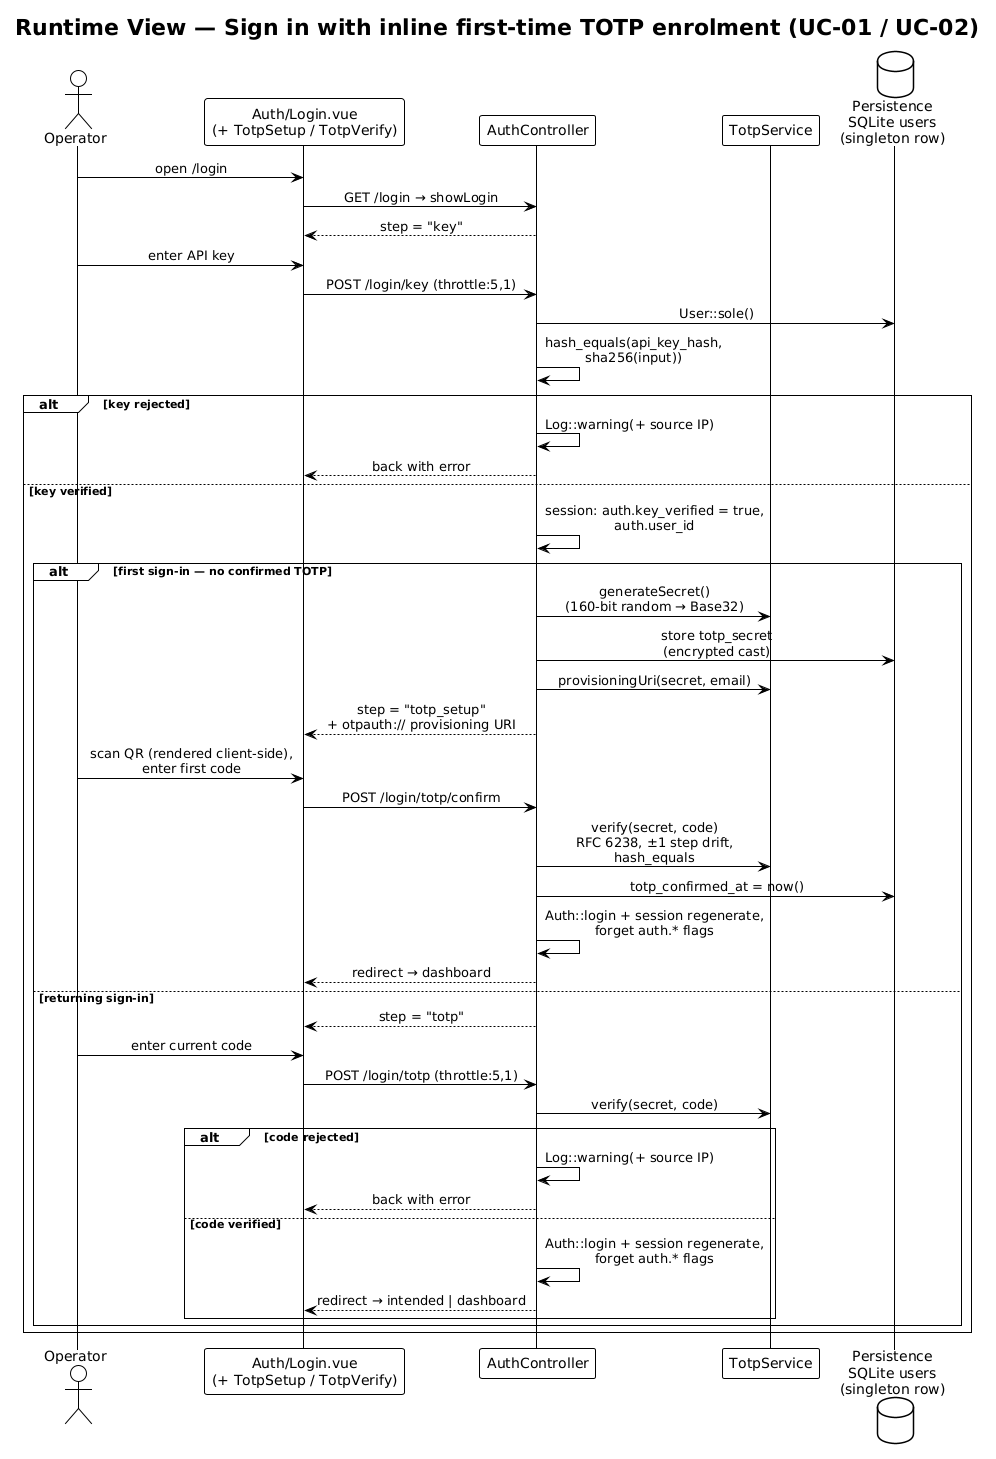
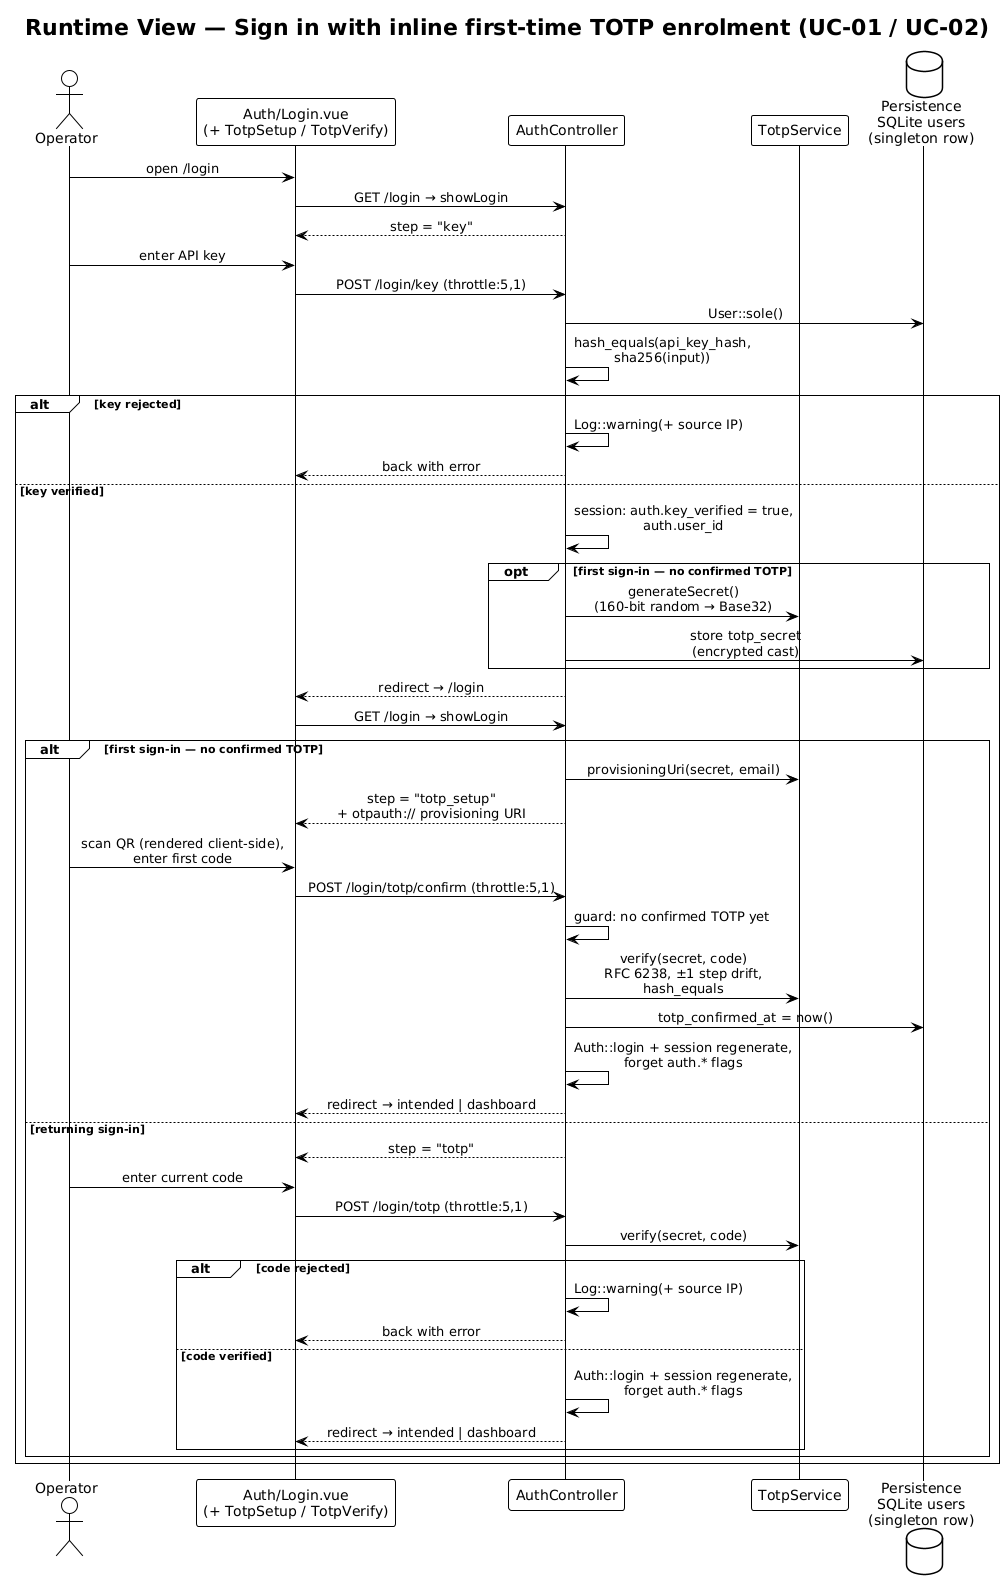
fix(auth): guard TOTP enrolment against re-enrolment bypass
setupTotp and confirmTotp now redirect to /login once a TOTP factor is
confirmed, so the API key alone can no longer replace the secret and
sign in. Both enrolment endpoints get the same throttle:5,1 as the
factor endpoints.

TotpService decodes the secret once per verify() and packs the counter
as a 64-bit big-endian integer; validation reads the code length from
TotpService::DIGITS.

Docs: A06 sign-in diagram follows the real call order (provisioning URI
built in showLogin after the redirect), A06/A08 describe the enrolment
guard and throttling, remaining TECH-13 references point to ADR-010.

diff --git a/app/Services/TotpService.php b/app/Services/TotpService.php
@@ -52,10 +52,11 @@ class TotpService
      */
     public function verify(string $secret, string $code, ?int $timestamp = null): bool
     {
+        $key = $this->base32Decode($secret);
         $counter = intdiv($timestamp ?? time(), self::PERIOD);
 
         for ($offset = -self::WINDOW; $offset <= self::WINDOW; $offset++) {
-            if (hash_equals($this->codeForCounter($secret, $counter + $offset), $code)) {
+            if (hash_equals($this->codeForCounter($key, $counter + $offset), $code)) {
                 return true;
             }
         }
@@ -68,7 +69,7 @@ class TotpService
      */
     public function codeAt(string $secret, int $timestamp): string
     {
-        return $this->codeForCounter($secret, intdiv($timestamp, self::PERIOD));
+        return $this->codeForCounter($this->base32Decode($secret), intdiv($timestamp, self::PERIOD));
     }
 
     /**
@@ -126,14 +127,13 @@ class TotpService
     }
 
     /**
-     * HOTP value (RFC 4226) for a counter, zero-padded to DIGITS digits.
+     * HOTP value (RFC 4226) for a counter and raw (decoded) key,
+     * zero-padded to DIGITS digits.
      */
-    private function codeForCounter(string $base32Secret, int $counter): string
+    private function codeForCounter(string $key, int $counter): string
     {
-        // 8-byte big-endian counter (high word 0; sufficient until counter >= 2^32)
-        $counterBytes = pack('N*', 0, $counter);
-
-        $hash = hash_hmac('sha1', $counterBytes, $this->base32Decode($base32Secret), true);
+        // 8-byte big-endian counter
+        $hash = hash_hmac('sha1', pack('J', $counter), $key, true);
 
         // Dynamic truncation (RFC 4226 § 5.3)
         $offset = ord($hash[19]) & 0x0F;

diff --git a/app/Http/Controllers/AuthController.php b/app/Http/Controllers/AuthController.php
@@ -84,6 +84,11 @@ class AuthController extends Controller
 
         $user = User::findOrFail($request->session()->get('auth.user_id'));
 
+        // Never let factor 1 alone replace a confirmed second factor.
+        if ($user->hasTotpEnabled()) {
+            return redirect()->route('login');
+        }
+
         $secret = $totp->generateSecret();
         $user->update(['totp_secret' => $secret]);
 
@@ -98,7 +103,7 @@ class AuthController extends Controller
     public function confirmTotp(Request $request, TotpService $totp)
     {
         $request->validate([
-            'totp_code' => 'required|digits:6',
+            'totp_code' => 'required|digits:'.TotpService::DIGITS,
         ]);
 
         if (! $request->session()->get('auth.key_verified')) {
@@ -106,6 +111,10 @@ class AuthController extends Controller
         }
 
         $user = User::findOrFail($request->session()->get('auth.user_id'));
+
+        if ($user->hasTotpEnabled()) {
+            return redirect()->route('login');
+        }
 
         if (! $user->totp_secret) {
             return back()->withErrors(['totp_code' => 'TOTP not set up yet.']);
@@ -127,7 +136,7 @@ class AuthController extends Controller
     public function verifyTotp(Request $request, TotpService $totp)
     {
         $request->validate([
-            'totp_code' => 'required|digits:6',
+            'totp_code' => 'required|digits:'.TotpService::DIGITS,
         ]);
 
         if (! $request->session()->get('auth.key_verified')) {

diff --git a/tests/Acceptance/AuthenticationTest.php b/tests/Acceptance/AuthenticationTest.php
@@ -167,6 +167,25 @@ class AuthenticationTest extends TestCase
         $this->assertGuest();
     }
 
+    public function test_api_key_alone_cannot_replace_confirmed_totp(): void
+    {
+        $session = ['auth.key_verified' => true, 'auth.user_id' => $this->user->id];
+
+        $this->withSession($session)
+            ->post('/login/totp/setup')
+            ->assertRedirect('/login');
+
+        $this->assertSame(self::TOTP_SECRET, $this->user->fresh()->totp_secret);
+
+        $code = app(TotpService::class)->codeAt(self::TOTP_SECRET, time());
+
+        $this->withSession($session)
+            ->post('/login/totp/confirm', ['totp_code' => $code])
+            ->assertRedirect('/login');
+
+        $this->assertGuest();
+    }
+
     public function test_protected_routes_require_authentication(): void
     {
         $routes = [

diff --git a/routes/web.php b/routes/web.php
@@ -11,8 +11,8 @@ use Illuminate\Support\Facades\Route;
 Route::get('/login', [AuthController::class, 'showLogin'])->name('login');
 Route::post('/login/key', [AuthController::class, 'verifyKey'])->middleware('throttle:5,1');
 Route::post('/login/totp', [AuthController::class, 'verifyTotp'])->middleware('throttle:5,1');
-Route::post('/login/totp/setup', [AuthController::class, 'setupTotp']);
-Route::post('/login/totp/confirm', [AuthController::class, 'confirmTotp']);
+Route::post('/login/totp/setup', [AuthController::class, 'setupTotp'])->middleware('throttle:5,1');
+Route::post('/login/totp/confirm', [AuthController::class, 'confirmTotp'])->middleware('throttle:5,1');
 Route::post('/logout', [AuthController::class, 'logout']);
 
 // Recovery

diff --git a/tests/Unit/TotpServiceTest.php b/tests/Unit/TotpServiceTest.php
@@ -7,7 +7,7 @@ use PHPUnit\Framework\Attributes\DataProvider;
 use PHPUnit\Framework\TestCase;
 
 /**
- * Home-rolled TOTP (TECH-13) against RFC 6238 / RFC 4648.
+ * Home-rolled TOTP (ADR-010) against RFC 6238 / RFC 4648.
  *
  * NFR-15a-01: Two-Factor Browser Authentication
  */

diff --git a/docs/arch/A08-cross-cutting-concepts.md b/docs/arch/A08-cross-cutting-concepts.md
@@ -257,7 +257,7 @@ These values record that factor 1 succeeded and identify the operator for the ne
 **Step 2 — a TOTP code is accepted only after the API key.** Both endpoints that accept a TOTP code — `verifyTotp` for a returning operator and `confirmTotp` for first-time enrolment — first check the temporary session values from step 1:
 
 ```php
-$request->validate(['totp_code' => 'required|digits:6']);
+$request->validate(['totp_code' => 'required|digits:'.TotpService::DIGITS]);
 
 if (! $request->session()->get('auth.key_verified')) {
     return redirect()->route('login');           // factor 1 not passed — no error detail
@@ -266,15 +266,16 @@ if (! $request->session()->get('auth.key_verified')) {
 $user = User::findOrFail($request->session()->get('auth.user_id'));
 ```
 
-Without `auth.key_verified`, the request returns to the login page. A direct call to a TOTP endpoint therefore cannot skip the API-key step. The user id also ensures that the code is checked for the same operator whose API key was accepted.
+Without `auth.key_verified`, the request returns to the login page. A direct call to a TOTP endpoint therefore cannot skip the API-key step. The user id also ensures that the code is checked for the same operator whose API key was accepted. The enrolment endpoints (`setupTotp`, `confirmTotp`) additionally return to the login page once `totp_confirmed_at` is set, so factor 1 alone can never replace or re-confirm an enrolled second factor.
 
 **Step 3 — the TOTP code is checked against the current time window.** A TOTP code changes every 30 seconds. To tolerate small clock differences between Herold and the authenticator app, `TotpService::verify` accepts the expected code for the previous, current, or next 30-second interval. Each comparison uses `hash_equals` to avoid timing leaks:
 
 ```php
+$key = $this->base32Decode($secret);                                // decoded once per attempt
 $counter = intdiv($timestamp ?? time(), self::PERIOD);              // the RFC 6238 time step (30 s)
 
 for ($offset = -self::WINDOW; $offset <= self::WINDOW; $offset++) { // ±1 step tolerates clock drift
-    if (hash_equals($this->codeForCounter($secret, $counter + $offset), $code)) {
+    if (hash_equals($this->codeForCounter($key, $counter + $offset), $code)) {
         return true;
     }
 }
@@ -282,11 +283,10 @@ for ($offset = -self::WINDOW; $offset <= self::WINDOW; $offset++) { // ±1 step 
 return false;
 ```
 
-The optional `$timestamp` (and the public `codeAt(string $secret, int $timestamp)`) exist for tests; the controller always verifies against the current time. `codeForCounter` implements the underlying RFC 4226 calculation without a library ([ADR-010](A09-architecture-decisions.md#adr-010-home-rolled-totp-instead-of-a-library)): it encodes the time counter as eight bytes, calculates HMAC-SHA1 with the shared secret, and derives a six-digit code from the result:
+The optional `$timestamp` (and the public `codeAt(string $secret, int $timestamp)`) exist for tests; the controller always verifies against the current time. `codeForCounter` implements the underlying RFC 4226 calculation without a library ([ADR-010](A09-architecture-decisions.md#adr-010-home-rolled-totp-instead-of-a-library)): it encodes the time counter as eight bytes, calculates HMAC-SHA1 with the decoded shared secret, and derives a six-digit code from the result:
 
 ```php
-$counterBytes = pack('N*', 0, $counter);                        // 8-byte big-endian counter
-$hash = hash_hmac('sha1', $counterBytes, $this->base32Decode($base32Secret), true);
+$hash = hash_hmac('sha1', pack('J', $counter), $key, true);     // 8-byte big-endian counter
 
 $offset = ord($hash[19]) & 0x0F;                                // dynamic truncation
 $binary = ((ord($hash[$offset]) & 0x7F) << 24)
@@ -297,7 +297,7 @@ $binary = ((ord($hash[$offset]) & 0x7F) << 24)
 return str_pad((string) ($binary % 10 ** self::DIGITS), self::DIGITS, '0', STR_PAD_LEFT);
 ```
 
-One verification attempt therefore checks at most three candidate codes. For returning operators, `POST /login/totp` is limited to five requests per minute. The first-time enrolment endpoint `POST /login/totp/confirm` currently has no equivalent route-level throttle.
+One verification attempt therefore checks at most three candidate codes. `POST /login/totp` (returning operators) and the enrolment endpoints `POST /login/totp/setup` and `POST /login/totp/confirm` are each limited to five requests per minute.
 
 **Step 4 — a valid TOTP code completes the login.** Only now does Laravel mark the operator as authenticated. The controller then replaces the session id to prevent session-fixation attacks and removes the temporary values from step 1:
 

diff --git a/docs/arch/A06-runtime-view.md b/docs/arch/A06-runtime-view.md
@@ -64,7 +64,8 @@ Notable aspects:
 - **One controller, three steps, one session.** `showLogin` derives the current step (`key` → `totp_setup` → `totp`) from session flags and the user's enrolment state; the intermediate first-factor success is held as `auth.key_verified` in the session, never as a half-authenticated login.
 - **Enrolment is lazy and inline.** The first successful key verification auto-generates a TOTP secret (160-bit random, Base32) and drives the operator through provisioning-URI capture and code confirmation before any session is issued — [UC-02](../spec/F2-anwendungsfaelle.md#uc-02--enrol-second-factor) as an inline branch of [UC-01](../spec/F2-anwendungsfaelle.md#uc-01--sign-in), exactly as specified.
 - **The session attests both factors.** `Auth::login` fires only after the second factor verifies; the session id is regenerated and the intermediate flags are dropped. Every protected route then relies solely on the stock session `auth` guard ([§ 8.4](A08-cross-cutting-concepts.md#84-authentication-and-session)).
-- **Rate limits sit in front of the credential checks.** `throttle:5,1` guards both factor endpoints; failures are logged with source IP ([NFR-15a-02](../spec/N1-nichtfunktional.md#15a-access-requirements), [N2.6](../spec/N2-querschnittskonzepte.md#n26-logging)).
+- **Enrolment cannot replace a confirmed second factor.** The enrolment endpoints bounce back to `/login` once `totp_confirmed_at` is set, so the API key alone can never mint a fresh TOTP secret for an enrolled operator.
+- **Rate limits sit in front of the credential checks.** `throttle:5,1` guards both factor endpoints and the enrolment endpoints; failures are logged with source IP ([NFR-15a-02](../spec/N1-nichtfunktional.md#15a-access-requirements), [N2.6](../spec/N2-querschnittskonzepte.md#n26-logging)).
 
 ## 6.5 Recover access
 
